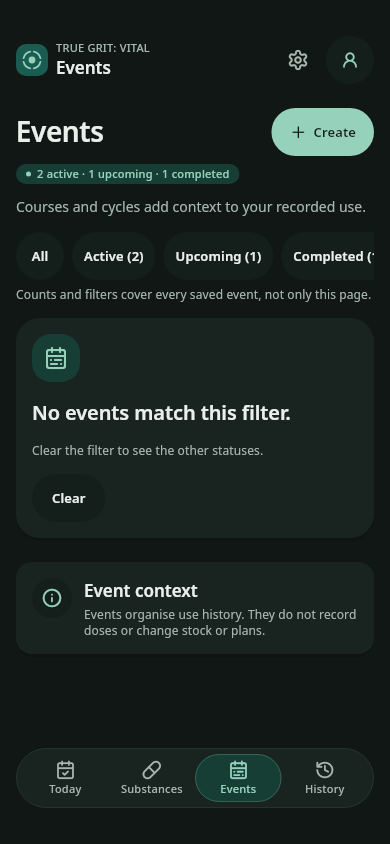
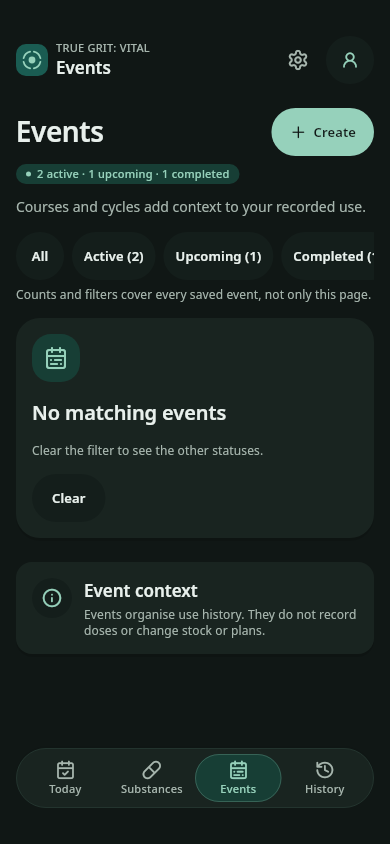
Complete four tracking improvements and verify app boot
- Add whole-collection event filters and counts with coherent status instants, filtered pagination and refresh after unlock.
- Read latest lab markers across the filtered collection using bounded pages, exact counts and explicit sample coverage.
- Find prior panel comparisons across saved current records while preserving date, source and duplicate-result uncertainty.
- Include original saved plan instructions in optional PDF/text and schema 3 JSON/CSV outputs without attributing current text to older doses.
- Update the roadmap and preserve reviewed theme, large-text and PDF references.
- Verify 144 combined feature/framework/motion checks, clean analysis, a Linux debug build and real-keyring boot/persistence/navigation/export/backup; retain physical-device gates.

Changed region(s): [[0.1846, 0.4621, 0.7385, 0.5237]]

diff --git a/test/event_collection_capture_test.dart b/test/event_collection_capture_test.dart
@@ -92,7 +92,7 @@ void main() {
       await capture(tester, boundaryKey, '${theme.name}-events-overview');
 
       await tap(tester, 'Review (0)');
-      await waitForText(tester, 'No events match this filter.');
+      await waitForText(tester, 'No matching events');
       expect(tester.takeException(), isNull);
       await capture(tester, boundaryKey, '${theme.name}-events-review-empty');
     });
@@ -121,9 +121,9 @@ void main() {
     // The horizontal status row stays reachable at this size; Clear is the
     // recovery action once the chosen status has no events.
     await tap(tester, 'Review (0)');
-    await waitForText(tester, 'No events match this filter.');
+    await waitForText(tester, 'No matching events');
     await Scrollable.ensureVisible(
-      tester.element(find.text('No events match this filter.')),
+      tester.element(find.text('No matching events')),
     );
     await settle(tester);
     expect(tester.takeException(), isNull);

diff --git a/test/event_collection_store_test.dart b/test/event_collection_store_test.dart
@@ -263,6 +263,23 @@ void main() {
     },
   );
 
+  test('watches created while locked resume without another write', () async {
+    await save('resume', start: day(10, 1));
+    store.suspendWrites(true);
+    final events = store
+        .watchEventCollection(filter: EventCollectionFilter.all, now: now)
+        .first;
+    final settings = store.watchSettings().first;
+    final drafts = store.watchDrafts().first;
+    await Future<void>.delayed(Duration.zero);
+    store.suspendWrites(false);
+    await Future.wait([
+      events.then((value) => expect(value.counts.all, 1)),
+      settings.then((value) => expect(value, isA<Map<String, String>>())),
+      drafts.then((value) => expect(value, isEmpty)),
+    ]).timeout(const Duration(seconds: 2));
+  });
+
   test('refuses to read the collection while writes are suspended', () async {
     await save('locked', start: day(10, 1));
     store.suspendWrites(true);

diff --git a/test/event_collection_ui_test.dart b/test/event_collection_ui_test.dart
@@ -71,7 +71,7 @@ void main() {
     await waitForText(tester, '2 active · 1 upcoming · 1 completed');
 
     await tap(tester, 'Review (0)');
-    await waitForText(tester, 'No events match this filter.');
+    await waitForText(tester, 'No matching events');
     expect(find.text('2 active · 1 upcoming · 1 completed'), findsOneWidget);
     expect(
       find.text('Clear the filter to see the other statuses.'),
@@ -90,7 +90,7 @@ void main() {
 
     await tap(tester, 'Clear');
     await waitForText(tester, 'Autumn Immunity & Recovery Cycle');
-    expect(find.text('No events match this filter.'), findsNothing);
+    expect(find.text('No matching events'), findsNothing);
     expect(find.text('2 active · 1 upcoming · 1 completed'), findsOneWidget);
     expect(tester.takeException(), isNull);
   });

diff --git a/lib/data/record_store.dart b/lib/data/record_store.dart
@@ -380,7 +380,17 @@ final class RecordStore {
   final _migratedDraftIds =
       <String, ({String operationId, String destinationId})>{};
   bool get writesSuspended => _writesSuspended;
-  void suspendWrites(bool value) => _writesSuspended = value;
+  void suspendWrites(bool value) {
+    final wasSuspended = _writesSuspended;
+    _writesSuspended = value;
+    if (wasSuspended && !value && !_closed) {
+      // Watches can start, or suppress a queued read, while locked. Resume
+      // their current read without requiring an unrelated write after unlock.
+      _changes.add(null);
+      _draftChanges.add(null);
+    }
+  }
+
   void _requireWritable() {
     if (_closed || _writesSuspended) throw const CommandConflict('app_locked');
   }

diff --git a/test/screen_events_page_test.dart b/test/screen_events_page_test.dart
@@ -45,7 +45,7 @@ void main() {
     f.container.read(routerProvider).go('/events');
     await settle(tester);
     await waitForText(tester, 'Hypertension Management 2026');
-    expect(find.text('No events match this filter.'), findsNothing);
+    expect(find.text('No matching events'), findsNothing);
     await tap(tester, 'Active (2)');
     expect(find.text('Hypertension Management 2026'), findsOneWidget);
     expect(find.text('Autumn Immunity & Recovery Cycle'), findsOneWidget);

diff --git a/lib/l10n/app_localizations.dart b/lib/l10n/app_localizations.dart
@@ -10566,7 +10566,7 @@ abstract class AppLocalizations {
   /// Filtered empty state when the whole collection has events but none match the chosen status.
   ///
   /// In en, this message translates to:
-  /// **'No events match this filter.'**
+  /// **'No matching events'**
   String get featureEventCollectionNoMatches;
 
   /// Recovery hint in the filtered Events empty state.

diff --git a/lib/l10n/app_localizations_en.dart b/lib/l10n/app_localizations_en.dart
@@ -6829,7 +6829,7 @@ class AppLocalizationsEn extends AppLocalizations {
       'Counts and filters cover every saved event, not only this page.';
 
   @override
-  String get featureEventCollectionNoMatches => 'No events match this filter.';
+  String get featureEventCollectionNoMatches => 'No matching events';
 
   @override
   String get featureEventCollectionNoMatchesHelp =>

diff --git a/docs/design/roadmap.md b/docs/design/roadmap.md
@@ -43,14 +43,14 @@ These are recorded follow-up work, not completed features. Dependencies refer to
 | D08 | Integrated substance setup | Identity, schedule and optional opening stock in a coherent flow with drafts/recovery; optional authored instructions and notes; follows D04. | Host integrated and verified: resumable optional setup, canonical editors, authored instructions/private notes and privacy-gated outputs |
 | D09 | Dose presets and recording sheet | Exact preset quantities and strength equivalents, visible stock consequence, compact responsive sheet/page, existing validation and durable actions retained. | Integrated on host: exact user-saved/latest-schedule presets, responsive sheet and stock/strength previews; durable guards retained |
 | D10 | Dose context and skip reasons | Persist optional notes, food/context tags and skip reason through edits, history, exports and backup/restore. Optional observation entry links use existing supporting-record semantics. | Host integrated and verified: optional dose context and skip reasons, revision/draft recovery, private outputs and encrypted restore |
-| D11 | Schedule requirements and tolerance | Optional food/bedtime instructions and explicit timing-tolerance rules, reflected consistently in forms, summaries and history. No treatment recommendations or inferred maximum doses. | Partial: versioned authored plan instructions, drafts, shared summaries and encrypted recovery are host verified; timing-tolerance rules still need definition |
+| D11 | Schedule requirements and tolerance | Optional food/bedtime instructions and explicit timing-tolerance rules, reflected consistently in forms, summaries and history. No treatment recommendations or inferred maximum doses. | Partial: versioned authored instructions, drafts, shared summaries, encrypted recovery and optional original-version report/export text are host verified; timing-tolerance rules still need definition |
 | D12 | Reminder follow-ups and alert controls | Explicit opt-in follow-up timing, cancellation/reconciliation after actions, sound/haptic choices and truthful OS limitations. Existing snooze is preserved. Native/device evidence required. | Partial: sound/vibration preferences and real Android channel variants are host verified, with native OS-mute guards; follow-up timing and physical-device evidence remain open |
 | D13 | Stock lots and expiry | Optional lot/batch and expiry metadata, pack capacity and restock flow; schema migrations, history and export/backup round trips. | Host integrated and verified: schema 24, lot/expiry/exact capacity, guarded edits and paged history, structured provenance, encrypted restore and optional capture-time stock details in reports |
 | D14 | Stock forecast and inventory overview | Low/adequate/paused filtering, remaining-capacity display and schedule-based run-out estimates. PRN, unknown balance, incompatible units and incomplete schedules stay explicit; follows D03/D13. | Host integrated and verified: store-backed search/counts/filters, exact capacity proportions and conditional forecast from tomorrow; incomplete inventory reads and unsupported schedules are explicit |
 | D15 | Refill delivery and scanning | Native refill notices extend the currently agreed in-app stock notices. Barcode/pack recognition needs exact source, licence, privacy and ambiguity rules; manual entry always works. | Backlog: bounded design/source review |
-| D16 | Event overview | Status filters/counts, progress cards and linked-substance/recorded/skipped summaries using existing event dates/membership. Surface supported notes and configure/history actions. | Host integrated: saved private notes, whole-event recorded/skipped totals and linked-substance counts; collection status filters still describe the loaded page |
-| D17 | Lab dashboard | Latest-value cards, categories, comparable trends/sparklines, baseline changes and source-range indicators with original units/flags. Existing panels/attachments/trends remain available. | Host integrated: authored categories, dated comparable sparklines with accessible tables and exact prior changes; latest projection remains bounded to 75 records and 60 markers |
-| D18 | Lab panel detail | Categorised results, comparable prior values, context links and protected original-file/hash actions. Add accession/source identifiers only with storage and export support. | Host integrated: grouped results, prior comparisons relative to the viewed panel and saved accession/report identifiers through exports, reports and encrypted restore; prior query discloses its 50-record limit |
+| D16 | Event overview | Status filters/counts, progress cards and linked-substance/recorded/skipped summaries using existing event dates/membership. Surface supported notes and configure/history actions. | Host integrated: saved private notes, whole-event summaries, whole-collection status counts and filter-before-page browsing; captured status instants and filtered-page clamping preserve current context |
+| D17 | Lab dashboard | Latest-value cards, categories, comparable trends/sparklines, baseline changes and source-range indicators with original units/flags. Existing panels/attachments/trends remain available. | Host integrated: latest dated values across the filtered collection with 24-marker pages and exact counts; trends sample 24 points and comparisons 48 results with disclosed limits; duplicate prior results retain uncertainty |
+| D18 | Lab panel detail | Categorised results, comparable prior values, context links and protected original-file/hash actions. Add accession/source identifiers only with storage and export support. | Host integrated: complete current-record prior comparisons relative to the viewed panel, exact source/date matching and order-independent ambiguity; saved accession/report identifiers remain available through outputs and encrypted restore |
 | D19 | History presentation and timing | Compact day groups, filters/counts, weekly summaries and on-time/late indicators using D11 rules; planned slots and actual use remain distinct. Existing reports/CSV/PDF remain available. | Partial: monthly calendar, compact day cards, disclosed filters and exact selected-week aggregates integrated; timing indicators await D11 |
 | D20 | Settings and vault overview | Reference-informed sections/tabs, real storage/record counts and report date shortcuts. Preserve current manual backup/restore, lock, appearance, privacy and support. | Host integrated and verified: live whole-collection counts, measured database storage and reviewed report date shortcuts; device gates remain open |
 | D21 | Automatic protected backups | Define destination, retention, encryption/key availability and interrupted-exit recovery. Never claim a completed backup before durable verification. | Partial foundation: bounded encrypted manual-backup receipts distinguish archive checks from confirmed saves; automatic destination/retention/key/recovery lifecycle remains open |
@@ -98,8 +98,9 @@ All five packages are integrated and host verified. Final verification passed
 reminder engine checks, Android Kotlin compilation and the real Secret Service
 Linux boot/persistence/navigation/export/backup flow. The Linux debug bundle
 built successfully. See the [batch evidence](reviews/2026-10-22-next-five/README.md).
-Device/release gates remain open. Plan-instruction output mapping remains separate
-from this private in-app slice.
+Device/release gates remain open. Plan-instruction output mapping is separate
+from this private in-app slice; the subsequent D11b work below adds it through
+explicit saved action/version links.
 
 ## Next four-task batch
 
@@ -120,6 +121,13 @@ worktrees based on the pushed checkpoint. Acceptance criteria, ownership,
 required skills and delegation identities are retained locally under
 `.scratch/vital-implementation/next-four-2026-10-22/`. Each slice remains in
 progress until its implementation, integration and relevant verification pass.
+All four slices are now integrated and host verified. Their focused review
+records are linked from the [batch evidence](reviews/2026-10-22-next-four/README.md).
+Lead review corrected filtered-page clamping, reload/unlock refresh, fixed-size
+marker paging and comparison ambiguity. Final verification passed 144 combined
+feature/framework/motion checks, clean analysis and the Linux debug build with
+real Secret Service boot, encrypted persistence, navigation, export and backup.
+Physical-device and release gates remain open.
 Timing tolerance, reminder follow-ups, automatic backup lifecycle and physical
 device gates retain their existing open status.
 

diff --git a/docs/design/reviews/2026-10-22-next-four/README.md b/docs/design/reviews/2026-10-22-next-four/README.md
@@ -1,0 +1,40 @@
+# Four concurrent tasks
+
+Owner authorised one free DeepSeek worker, two paid direct-API DeepSeek workers
+and the lead on 22 October 2026. All started concurrently from pushed `37a46f1`.
+Each worker received explicit ownership, acceptance criteria, current shared
+specification and required Flutter/copy/verification skill sources. No model
+rate limit has been reported.
+
+- D11b is integrated: [original plan outputs](plan-outputs/README.md), lead
+  implementation `6ab87c3`. Private report/export text follows explicit saved
+  action links to immutable plan versions. Standalone doses inherit nothing.
+- D18b is integrated: [complete prior comparisons](labs-comparison/README.md),
+  paid worker integration `c5410a2`, lead refresh guard `e29a975` and
+  order-independent ambiguity correction `db3002a`.
+- D17b is integrated: [latest lab coverage](labs-latest/README.md), paid worker
+  integration `ac51088` and lead paging/ambiguity corrections `d017cdd`.
+- D16b is integrated: [event collection](event-collection/README.md), free
+  worker integration `7916da6`. Lead review corrected filtered-page clamping,
+  coherent status instants, explicit read guards and refreshing watches on
+  unlock without an unrelated write.
+
+Focused checks, synthetic captures and actual skill paths are recorded in each
+review. Integration analysis is clean, and the combined feature/framework/motion
+run passed 144 checks across the four feature areas, shared components and
+motion. The focused Events/lock/draft run passed 48 checks. Final Events capture
+checks passed three scenarios, including light/dark and narrow double text.
+
+The Linux debug app built and passed the native boot, real Secret Service,
+encrypted persistence, navigation, export and backup flow. The task-owned test
+key and temporary dataset were removed successfully. See
+[`native-boot.json`](native-boot.json). This is Linux host evidence, not an
+Android physical-device result. Full command logs and delegation records are
+retained locally under `.scratch/vital-implementation/next-four-2026-10-22/`.
+Task-owned temporary PDFs, boot output trees and duplicate `/tmp` logs were
+removed after the final captures and evidence were verified. The current app
+bundle, source evidence and worker recovery checkouts remain available.
+
+Timing-tolerance rules,
+reminder follow-ups, automatic backup lifecycle and physical-device gates
+remain separate open work.

diff --git a/docs/design/reviews/2026-10-22-next-four/event-collection/README.md b/docs/design/reviews/2026-10-22-next-four/event-collection/README.md
@@ -43,3 +43,27 @@ The narrow captures show the scroll viewport shared with the fixed dock; the
 status row and Clear action remain reachable there. Physical screen-reader,
 device and performance acceptance remain open. This slice adds no clinical
 inference, adherence percentage, planned-total inference or new status meaning.
+
+## Lead integration
+
+The shared watch guard needed a corresponding unlock refresh. A regression
+started record, settings and draft watches while locked, then unlocked without
+performing another write. It timed out before the fix. Resuming writes now
+notifies both watch channels, so all three streams read their current values.
+The focused Events, timing, lock and draft run passed 48 checks after this fix.
+The empty-filter heading was shortened to “No matching events” to follow the
+three-word heading rule; captures were regenerated for that copy change.
+
+## Required skills
+
+The lead verified actual read calls in the worker activity: installed
+`/home/mike/.codex/skills/` sources for `flutter-expert` and its Riverpod/widget
+references, `codebase-memory`, `flutter-apply-architecture-best-practices`,
+`dart-add-unit-test`, `flutter-add-widget-test`,
+`flutter-build-responsive-layout`, `ui-ux-pro-max`,
+`dart-run-static-analysis`, `better-writing` and
+`verification-before-completion`; plus repository
+`.agents/skills/vital-mobile-copy/SKILL.md`. Gitignored specification and
+discovery documents were read from the parent checkout. New source files
+were read directly when parent-graph coverage initially reported them missing;
+the integrated paths subsequently reported no recorded coverage issue.
